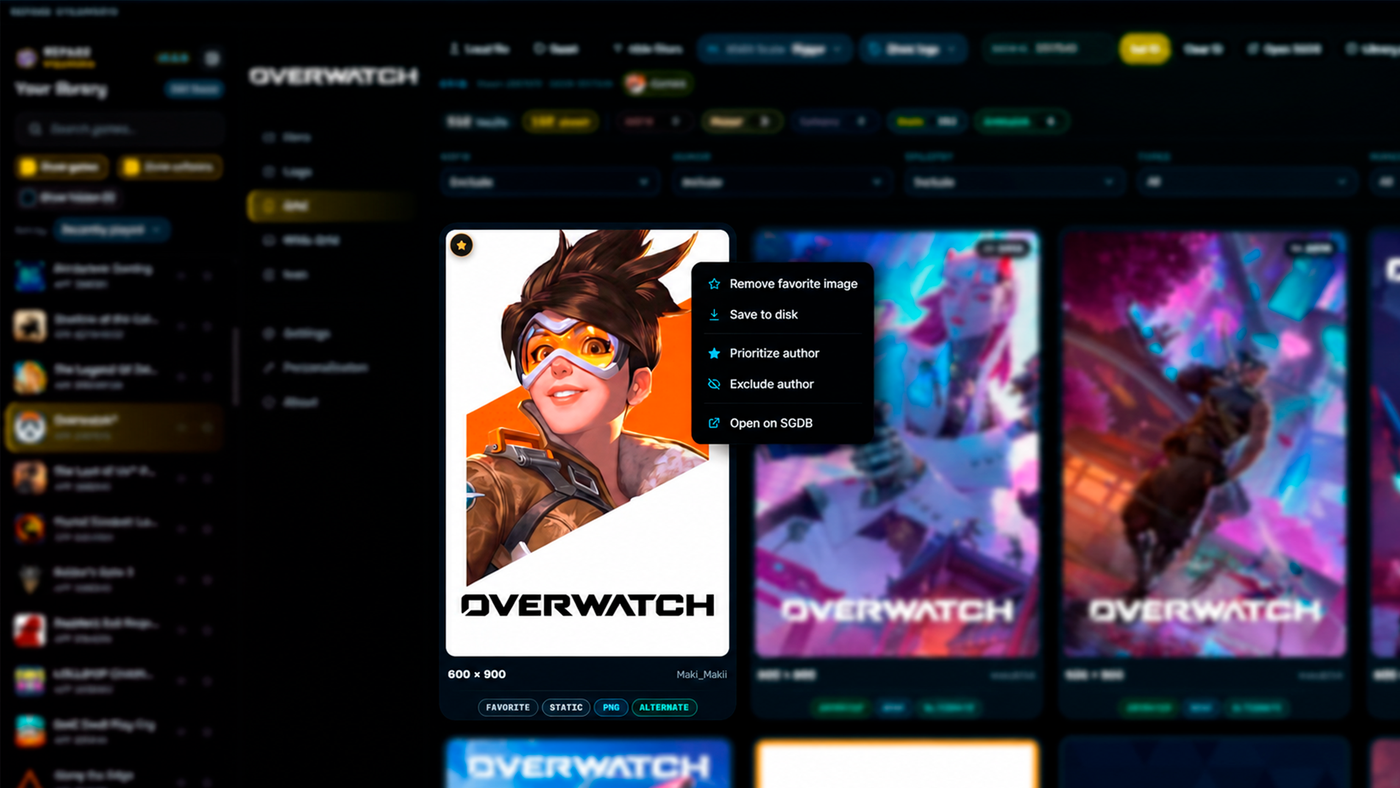
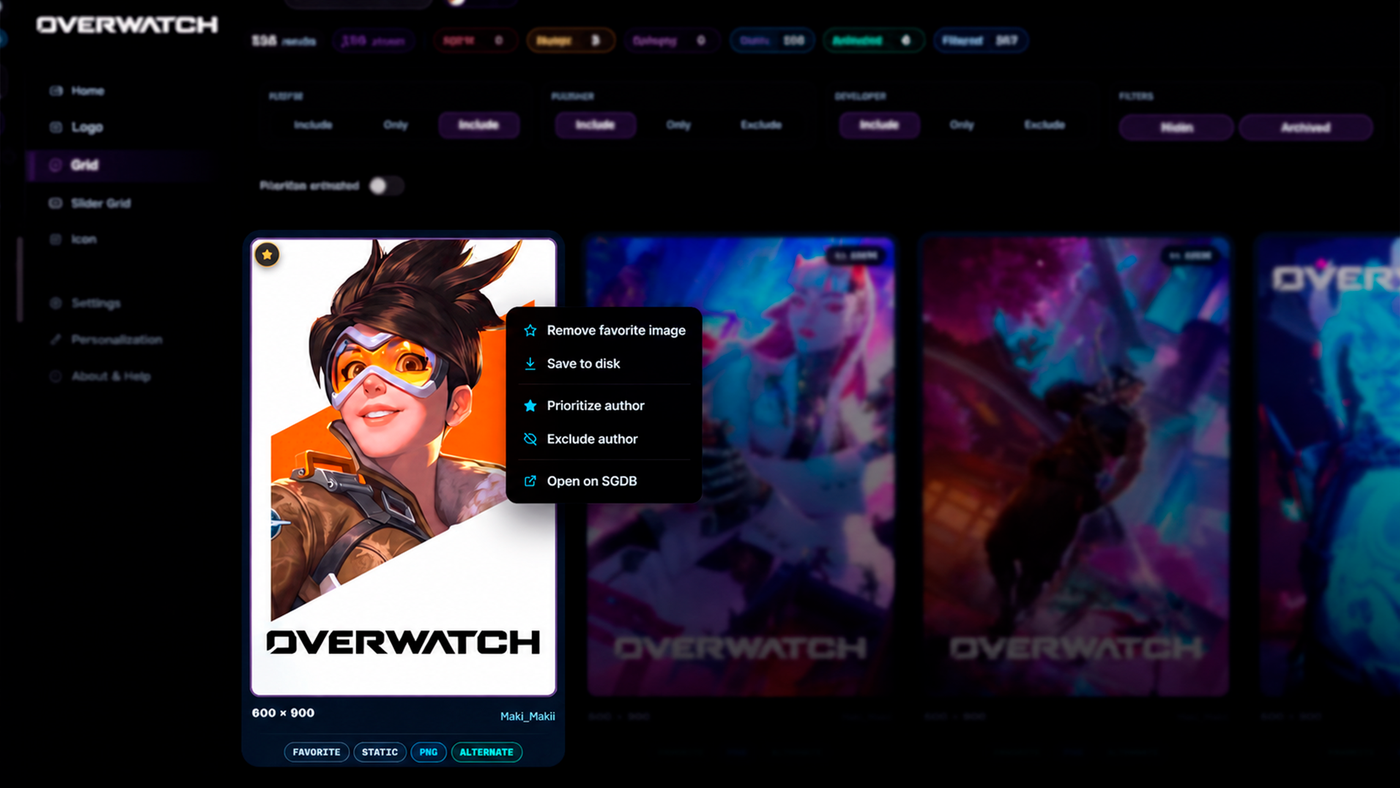
Add files via upload

diff --git a/README.md b/README.md
@@ -10,14 +10,14 @@ Browse, filter, preview and apply SteamGridDB artwork for your entire library, w
 ![Platform](https://img.shields.io/badge/platform-Windows%20%7C%20Linux%20%7C%20Steam%20Deck%20(alpha)-2a475e?style=flat-square)
 [![License](https://img.shields.io/badge/license-MIT-49C695?style=flat-square)](LICENSE)
 
-[**Download**](../../releases/latest) · [Installation](#installation) · [API key](#steamgriddb-api-key) · [Filters](#filters) · [Features](#features) · [Controls](#controls--shortcuts) · [Troubleshooting](#troubleshooting)
+[**Download**](../../releases/latest) · [Installation](#installation) · [API key](#steamgriddb-api-key) · [Filters](#filters) · [Non-Steam games](#non-steam-games-and-the-steamgriddb-id) · [Features](#features) · [Controls](#controls--shortcuts) · [Troubleshooting](#troubleshooting)
 
 </div>
 
 <div align="center">
   <img src="docs/preview.png" alt="Repage SteamGrid editor open on the Grid tab, with the Steam library blurred in the background" width="900">
   <br>
-  <sub><i>The editor open on a game's Grid tab: filter bar, results and the live library behind it.</i></sub>
+  <sub><i>The editor open on a game's Grid tab, with the filter panel, result counters and your library alongside.</i></sub>
 </div>
 
 ---
@@ -55,23 +55,25 @@ Repage SteamGrid runs inside the Steam client through [Millennium](https://githu
   <sub><i>Batch replace on a whole Steam Collection: 13 games restyled in one pass.</i></sub>
 </div>
 
-<!--
-  Alternative transition (cross-fade instead of the wipe). To use it,
-  replace docs/before-after.gif above with docs/before-after-fade.gif.
-  <img src="docs/before-after-fade.gif" alt="A Resident Evil collection before and after a batch replace" width="800">
--->
+<br>
+
+<div align="center">
+  <img src="docs/hero-live.png" alt="Hero artwork applied in real time on a Steam game page, with the Repage editor open beside it" width="900">
+  <br>
+  <sub><i>Hero artwork applied in real time: the game page updates the moment you click an image.</i></sub>
+</div>
 
 <br>
 
 <table>
   <tr>
     <td align="center" width="50%">
-      <img src="docs/hero-tab.png" alt="Hero tab on a non-Steam game" width="100%">
+      <img src="docs/grid-live.png" alt="Grid artwork applied in real time on the Steam library, using the Aika theme" width="100%">
       <br>
-      <sub><i>Hero tab on a non-Steam shortcut. Shortcuts get the same tools as Steam games.</i></sub>
+      <sub><i>Grid artwork applied in real time, here running on the <a href="https://github.com/hatewxb/Aika/">Aika</a> theme.</i></sub>
     </td>
     <td align="center" width="50%">
-      <img src="docs/context-menu.png" alt="Context menu on an artwork card" width="100%">
+      <img src="docs/context-menu.png" alt="Right-click menu on an artwork card" width="100%">
       <br>
       <sub><i>Right-click menu: favorite, save to disk, prioritize or exclude an author, open on SGDB.</i></sub>
     </td>
@@ -178,14 +180,14 @@ Repage gets every image from [SteamGridDB](https://www.steamgriddb.com), and Ste
 Filtering and sorting were two of the main reasons Repage was created. Easy SteamGrid showed a long list and little else. In Repage, every filter and every sorting option below works **instantly on the results already loaded**, with no extra requests, and a counter bar tells you exactly what you are looking at.
 
 <div align="center">
-  <img src="docs/filters.png" alt="The filter bar and result counters in the Hero tab" width="900">
+  <img src="docs/filters.png" alt="The filter panel and result counters in the Grid tab" width="900">
   <br>
-  <sub><i>The filter bar sits right above the results. Hide it with <b>Hide filters</b> when you want more room.</i></sub>
+  <sub><i>The filter panel, opened with the <b>Filters</b> button. The number on the button shows how many filters are active.</i></sub>
 </div>
 
 ### Tag filters: NSFW, Humor and Epilepsy
 
-These three work the same way. Each one has three modes:
+These three work the same way. Each one is a switch with three modes:
 
 | Mode | What you see |
 | :--- | :--- |
@@ -195,44 +197,16 @@ These three work the same way. Each one has three modes:
 
 For example, **NSFW: Exclude** keeps adult artwork out of your gallery (and out of your pinned favorites), while **NSFW: Only** is a quick way to review just the flagged images.
 
-### Checkbox filters: Types, Mimes, Styles and Dimensions
+### Types, Mimes, Styles and Dimensions
 
-These four open a list of checkboxes. Everything starts checked, and you untick what you do not want to see.
+- **Types** and **Mimes** are toggle buttons: **Static** / **Animated**, and the file formats **WebP** / **PNG** / **JPEG**. Click one to turn it off or on.
+- **Styles** and **Dimensions** open a checklist. The label reads **All**, or shows how many options are selected (for example *6 of 7*). Everything starts checked, and you untick what you do not want to see.
 
-<table>
-  <tr>
-    <td align="center" valign="top">
-      <b>Types</b><br><br>
-      <img src="docs/filter-types.png" alt="Types filter: Static and Animated" width="320">
-      <br><sub><i>Static and animated artwork.</i></sub>
-    </td>
-    <td align="center" valign="top">
-      <b>Mimes</b><br><br>
-      <img src="docs/filter-mimes.png" alt="Mimes filter: WebP, PNG and JPEG" width="320">
-      <br><sub><i>File formats: WebP, PNG, JPEG.</i></sub>
-    </td>
-  </tr>
-  <tr>
-    <td align="center" valign="top">
-      <b>Styles</b><br><br>
-      <img src="docs/filter-styles.png" alt="Styles filter: Alternate, Blurred and Material" width="320">
-      <br><sub><i>Alternate, Blurred, Material.</i></sub>
-    </td>
-    <td align="center" valign="top">
-      <b>Dimensions</b><br><br>
-      <img src="docs/filter-dims.png" alt="Dimensions filter: available image sizes" width="320">
-      <br><sub><i>The image sizes available (Hero tab shown).</i></sub>
-    </td>
-  </tr>
-</table>
+Use **Reset filters** to bring everything back to the defaults in one click.
 
 ### Sorting
 
-Sorting matters as much as filtering. **Sort by**, in the top right of the editor, sets the order of the **images** in the gallery. It does not sort the filters themselves, but the two work hand in hand: filters decide *which* images appear, and sorting decides *in what order*.
-
-<div align="center">
-  <img src="docs/filter-sort.png" alt="The Sort by menu: Score, Newest, Author, Resolution" width="230">
-</div>
+Sorting matters as much as filtering. The **sort menu** in the toolbar (it shows the current choice, such as *Score*) sets the order of the **images** in the gallery. It does not sort the filters themselves, but the two work hand in hand: filters decide *which* images appear, and sorting decides *in what order*.
 
 | Option | Order of the images |
 | :--- | :--- |
@@ -250,9 +224,9 @@ Two switches work **together with** the sort order instead of replacing it:
 
 ### Reading the results
 
-- **Counters:** a live bar shows the total **results**, how many are **shown** after filtering, and how many are *NSFW*, *Humor*, *Epilepsy*, *Static* and *Animated*. You see right away what a filter is hiding.
-- **Show tags:** each card can display chips such as `FAVORITE`, `STATIC`, `PNG` and `ALTERNATE`, so you can judge an image without opening it. Switch between the essential tags and the full set.
-- **Width scale:** change the card size to see more images at once or inspect them closer.
+- **Counter bar:** shows the total **results**, how many are **shown**, and how many carry each tag (*NSFW*, *Humor*, *Epilepsy*) or type (*Static*, *Animated*). **Filtered** is the number of images your filters are currently hiding, so you always know what you are not seeing.
+- **Tag chips:** every card shows chips such as `STATIC`, `PNG`, `ALTERNATE`, `MATERIAL` or `WHITE LOGO`, so you can judge an image without opening it.
+- **Card size:** the size menu in the toolbar (*Medium*, *Bigger* and so on) changes the card width, to see more images at once or inspect them closer.
 
 ### Curating beyond filters
 
@@ -261,6 +235,50 @@ Two switches work **together with** the sort order instead of replacing it:
 - **Pinned favorites:** favorite artwork per slot and it stays at the top regardless of sorting or filters.
 - **Local files first:** your own files stay pinned at the top of the slot.
 - **Portable:** filters and curation settings are included in the JSON backup, so you can move them between machines. Your API key never is.
+
+---
+
+## Non-Steam games and the SteamGridDB ID
+
+Steam games are matched to SteamGridDB by their Steam App ID, which is the same for everyone. **Non-Steam shortcuts** (emulators, games from other launchers, standalone executables) have no shared ID, so Repage **searches by the game's name automatically**.
+
+Most of the time that is all you need. But a name can match the wrong game, or nothing at all. If the artwork that appears is not from the right game, or the **SGDB ID** is empty, set the ID yourself.
+
+<div align="center">
+  <img src="docs/game-panel.png" alt="The Game and SteamGridDB panel with the SGDB ID field, Set ID and Clear ID buttons" width="360">
+  <br>
+  <sub><i>The <b>Game &amp; SteamGridDB</b> panel. Open it from the <b>SGDB ID</b> chip at the top left of the toolbar.</i></sub>
+</div>
+
+### How to find the ID
+
+1. Open [steamgriddb.com](https://www.steamgriddb.com) in your browser and search for the game.
+2. Open the page of the **correct** game.
+3. Look at the address bar. The **number at the end of the URL is the game's ID**.
+
+```text
+https://www.steamgriddb.com/game/38652
+                                 └─ 38652 is the game ID
+```
+
+### How to use it
+
+1. In Repage, select the game and click the **SGDB ID** chip at the top left of the toolbar.
+2. Type the ID into the **SGDB ID** field and click **Set ID**.
+3. The gallery reloads with that game's artwork.
+
+Your choice is saved as an override for that game, and it is included in your JSON backup. To go back to automatic matching, click **Clear ID**, and if you lose track of the number, **Redetect game** brings back the right one.
+
+The same panel has a few more tools:
+
+| Action | What it does |
+| :--- | :--- |
+| **Redetect game** | Gets the ID again automatically: by the game's **name** for non-Steam shortcuts, or by its **Steam App ID** for Steam games. Handy if you cleared or changed the number and do not remember what it was. |
+| **Open SGDB** | Opens the game's page on the official SteamGridDB site, in your browser. |
+| **Library page** | Takes you to the game's page in your Steam library, the one with the banner, the Play button and the rest. |
+| **Purge cache** | Clears the cached data related to this game, so it is fetched again. |
+
+> **Tip:** this also fixes the occasional Steam game whose artwork is mixed up or missing. Find the right page on SteamGridDB and set its ID the same way.
 
 ---
 
@@ -311,7 +329,12 @@ Two switches work **together with** the sort order instead of replacing it:
 <summary><b>Themes, languages and accessibility</b></summary>
 
 - **12 curated themes plus custom presets:** *Fluxuos Core* (an OLED theme with a subtle café pattern and cozy audio), *Steam Blue*, *Midnight*, *Midnight OLED*, *Nordic Frost*, *Crimson Velvet*, *Night City Neon*, *Umbrella Kiss*, *Bonnie & Clyde*, *The Green Hero*, *Firefly Glow* and *Cassino Inkwell*. Tweak lights, surfaces and corners, and save up to 9 presets of your own.
-- **7 languages with auto-detection:** English, Portuguese (Brazil), Spanish, Japanese, Korean, Russian and French, matched to your Steam language or chosen manually.
+- **7 languages with auto-detection:** English, Portuguese (Brazil), Spanish, Japanese, Korean, Russian and French. The default is **Automatic**, which follows your Steam language, and you can pick another one in **Settings**.
+
+<div align="center">
+  <img src="docs/languages.png" alt="The language menu: Automatic (Steam language) and the seven available languages" width="260">
+</div>
+
 - **Adaptive keyboard and audio:** uses Steam's keyboard in Big Picture and on Steam Deck, Repage's own controller keyboard on desktop, plus subtle UI sounds you can turn off.
 
 </details>
@@ -327,7 +350,7 @@ Two switches work **together with** the sort order instead of replacing it:
 | **Scroll gallery / page** | Mouse Wheel / `PageUp` / `PageDown` | Right Stick / `LT` / `RT` |
 | **Apply artwork** | Left Click / `Enter` / `Space` | `A` (Cross) |
 | **Image menu / Save to disk** | Right Click / `Shift + F10` | `X` (Square) |
-| **Show / hide filters** | Click *Show/Hide filters* | `Y` (Triangle) |
+| **Show / hide filters** | Click **Filters** | `Y` (Triangle) |
 | **Switch tabs** | `Ctrl + PageUp / PageDown` | `LB / RB` (`L1 / R1`) |
 | **Collapse / expand library** | `P` | `R3` (Right Stick Click) |
 | **Jump to library top** | `Home` (in list) | `L3` (Left Stick Click) |
@@ -341,6 +364,13 @@ Two switches work **together with** the sort order instead of replacing it:
 <summary><b>No artwork loads / the gallery is empty</b></summary>
 
 Almost always a missing or incomplete [SteamGridDB API key](#steamgriddb-api-key). Open **Settings**, paste the full key with no extra spaces and click **Apply key**.
+
+</details>
+
+<details>
+<summary><b>A non-Steam game shows the wrong artwork, or nothing</b></summary>
+
+Non-Steam shortcuts are matched by name, which can miss. Find the game on [steamgriddb.com](https://www.steamgriddb.com), copy the number at the end of its URL (for example `.../game/38652`), click the **SGDB ID** chip at the top left of the toolbar, enter the number and click **Set ID**. See [Non-Steam games and the SteamGridDB ID](#non-steam-games-and-the-steamgriddb-id).
 
 </details>
 
@@ -412,7 +442,7 @@ repage-steamgrid/
 - **ShuriZma**: special thanks, as credited in the original project.
 - **[SteamGridDB](https://www.steamgriddb.com)**: community artwork database and API. Please respect and credit the artists.
 - **[Millennium](https://github.com/SteamClientHomebrew/Millennium)**: Steam client plugin framework.
-- **hatewxb (Aika theme)**: visual inspiration for the ambient light and color-token concepts.
+- **hatewxb ([Aika theme](https://github.com/hatewxb/Aika/))**: visual inspiration for the ambient light and color-token concepts.
 
 ## License
 
